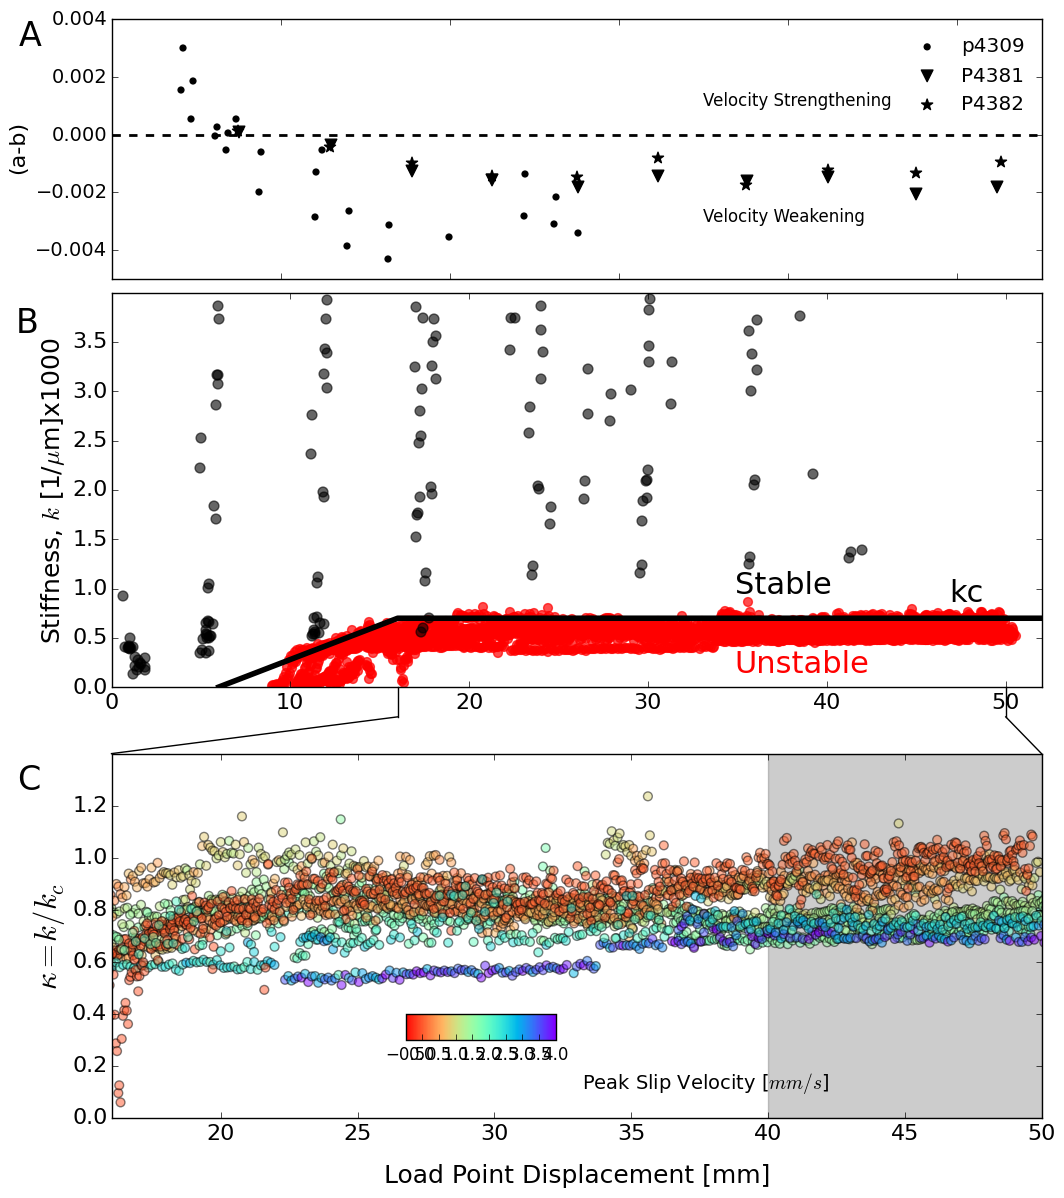
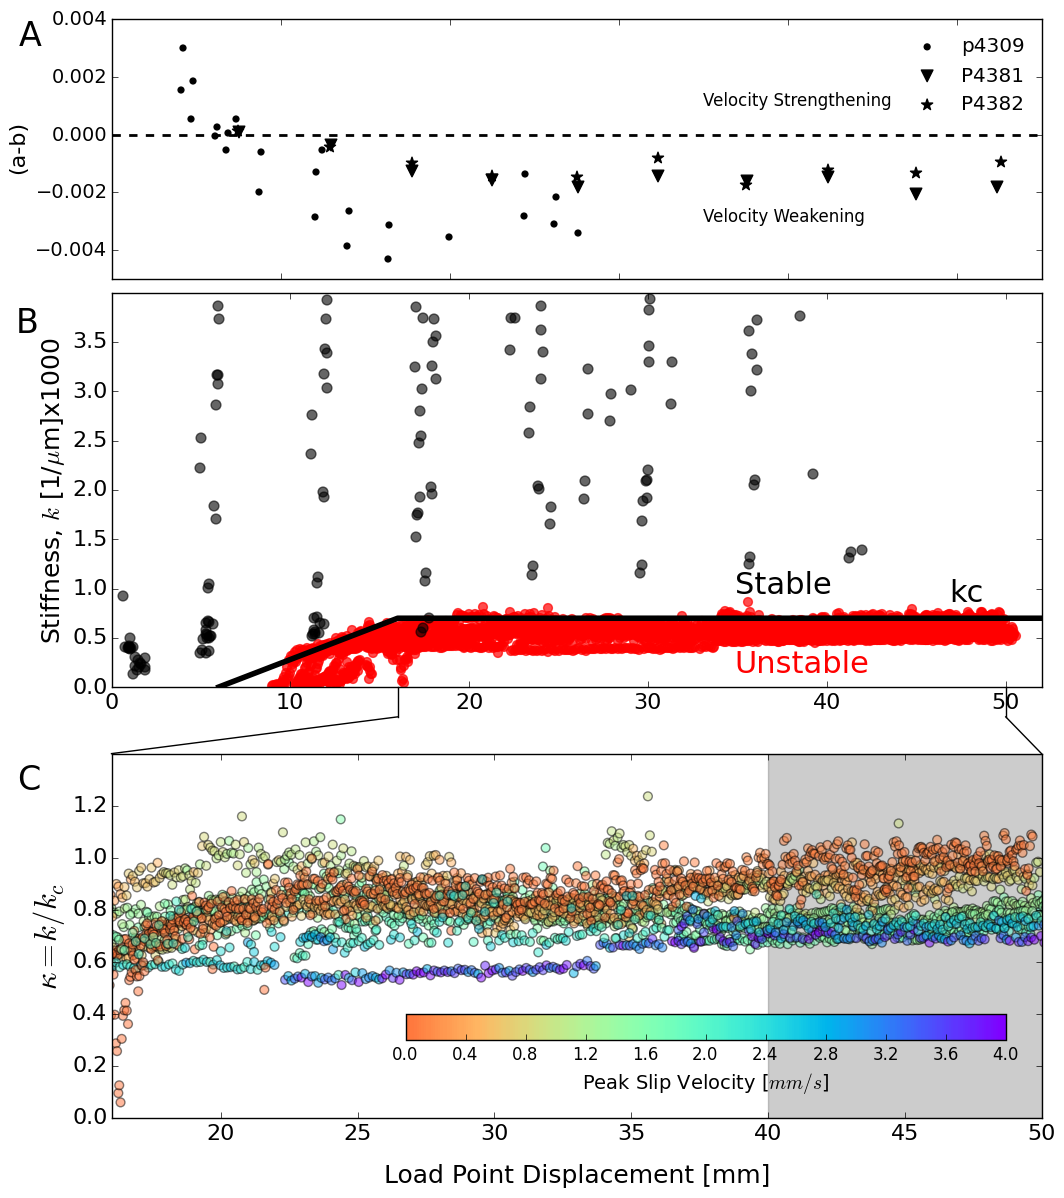
Fix color map limits

Changed region(s): [[0.3722, 0.8339, 0.9615, 0.8957]]

diff --git a/Figures/Fig_Slip_Properties/make_final_plot.py b/Figures/Fig_Slip_Properties/make_final_plot.py
@@ -2,6 +2,7 @@ import numpy as np
 import matplotlib.pyplot as plt
 import pandas as pd
 from matplotlib.patches import Rectangle
+from matplotlib.colors import LinearSegmentedColormap
 import matplotlib
 from biaxread import *
 
@@ -272,7 +273,7 @@ ax2.set_ylim(0,0.004*1000)
 
 low_color = 10./1000.
 high_color = 4600./1000.
-color_map = plt.get_cmap('rainbow_r')
+
 marker_size = 40
 marker_alpha=0.7
 color_col=11
@@ -354,13 +355,15 @@ ax3.get_yaxis().set_ticks([0,0.2,0.4,0.6,0.8,1.0,1.2])
 ax3.text(-0.1,0.9,'C',transform = ax3.transAxes,fontsize=24)
 
 low_color = 10./1000.
-low_color = -0.5
+low_color = 0
 high_color = 4000./1000.
-color_map = plt.get_cmap('rainbow_r')
-#color_map = plt.get_cmap('YlOrBr_r')
-#color_map = plt.get_cmap('YlOrRd_r')
-#color_map = plt.get_cmap('Reds_r')
 
+cmap = plt.get_cmap('rainbow_r')
+start=0.15
+stop = 1.
+colors = cmap(np.linspace(start, stop, cmap.N))
+# Create a new colormap from those colors
+color_map = LinearSegmentedColormap.from_list('Upper Half', colors)
 
 marker_size = 40
 marker_alpha=0.5
